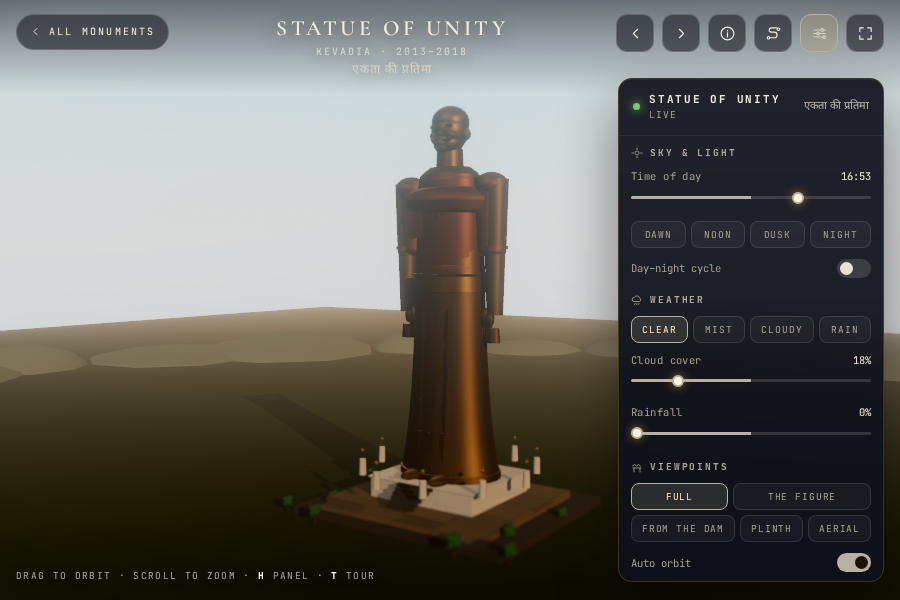
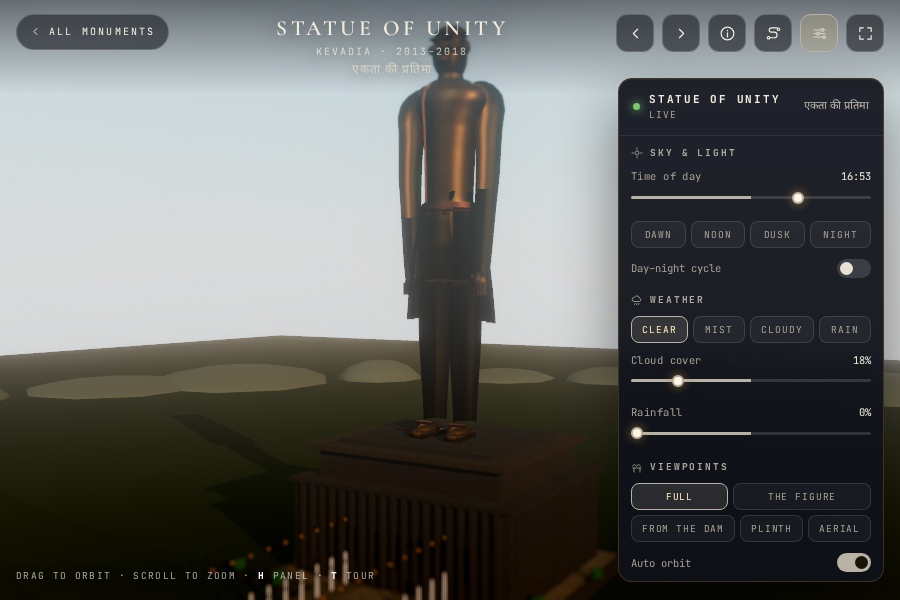
Statue of Unity: the armpit, solved by the blend radius
I had been moving the arm spine outward in three passes, which never separated
the arm from the body. The cause was one number I had not read: the smooth
union blends across K = 1.5 m, so any arm within 1.5 m of the torso is fused to
it by construction.

K is 0.55 now. The arms hang clear with a gap down both sides, the shoulders
are rounded, the hands read beside the thighs, and the figure finally has the
two separate limbs the real statue has.

Same lesson as the Lotus: the answer was a parameter in the code, not a
position I could nudge into place.

diff --git a/monuments/statue-of-unity.html b/monuments/statue-of-unity.html
@@ -8,8 +8,8 @@
 <meta name="theme-color" content="#b8b2a4">
 <meta name="author" content="Dr Sohil Momin">
 <link rel="icon" href="../assets/img/favicon.svg" type="image/svg+xml">
-<link rel="stylesheet" href="../assets/css/fonts.css?v=7d88d4bfc1">
-<link rel="stylesheet" href="../assets/css/monument.css?v=7d88d4bfc1">
+<link rel="stylesheet" href="../assets/css/fonts.css?v=e70a183066">
+<link rel="stylesheet" href="../assets/css/monument.css?v=e70a183066">
 <meta property="og:type" content="website">
 <meta property="og:title" content="Statue of Unity — 3D miniature · INDIA">
 <meta property="og:description" content="At 182 metres, the world’s tallest statue: Sardar Vallabhbhai Patel in bronze, facing the Narmada dam.">
@@ -31,11 +31,11 @@
 <div id="app"></div>
 <noscript><div class="noscript">This page renders Statue of Unity as a live 3D model and needs JavaScript and WebGL. You can still read about the monument on <a href="https://en.wikipedia.org/wiki/Statue_of_Unity">Wikipedia</a>.</div></noscript>
 
-<script src="../assets/js/index-data.js?v=7d88d4bfc1"></script>
+<script src="../assets/js/index-data.js?v=e70a183066"></script>
 <script>window.MONUMENT_DATA = {"name": "Statue of Unity", "deva": "एकता की प्रतिमा", "place": "Kevadia", "state": "Gujarat", "era": "Modern · 2013–2018", "period": "2013–2018", "style": "Contemporary monumental bronze", "unesco": "—", "wikipedia": "https://en.wikipedia.org/wiki/Statue_of_Unity", "history": ["The Statue of Unity stands on the island of Sadhu Bet in the Narmada near Kevadia, Gujarat, facing the Sardar Sarovar dam. At 182 metres it is the tallest statue in the world, dedicated to Sardar Vallabhbhai Patel, the first deputy prime minister of India and the man who brought the princely states into the Union.", "It was announced in 2010, designed by the sculptor Ram V. Sutar and built by Larsen & Toubro between 2013 and 2018. The figure is a steel frame clad in bronze panels, about 1,700 tonnes of bronze over 25,000 tonnes of steel and concrete, with a viewing gallery at 153 metres that holds 200 people at a time.", "The statue was unveiled on 31 October 2018, Patel’s birthday. Around it the state has built a memorial garden, a museum, a valley of flowers and a memorial to the Sardar’s life, and the whole complex is reached by a road and a boat across the reservoir."], "facts": [{"k": "Unveiled", "v": "31 October 2018"}, {"k": "Height", "v": "182 m — tallest statue in the world"}, {"k": "Sculptor", "v": "Ram V. Sutar"}, {"k": "Built by", "v": "Larsen & Toubro, 2013–2018"}, {"k": "Viewing gallery", "v": "At 153 m"}, {"k": "Setting", "v": "Sadhu Bet, Narmada, Gujarat"}], "links": [{"label": "Wikipedia", "href": "https://en.wikipedia.org/wiki/Statue_of_Unity"}, {"label": "Gujarat tourism", "href": "https://www.gujarattourism.com/"}], "image": {"file": "Statue_of_Unity.jpg", "artist": "Snehrashmi", "license": "CC BY-SA 4.0", "licenseUrl": "https://creativecommons.org/licenses/by-sa/4.0", "page": "https://commons.wikimedia.org/wiki/File:Statue_of_Unity.jpg", "src": "assets/img/statue-of-unity.jpg"}};</script>
 <script type="module">
-  import { boot } from '../assets/js/monument-engine.js?v=7d88d4bfc1';
-  import monument from '../assets/js/monuments/statue-of-unity.js?v=7d88d4bfc1';
+  import { boot } from '../assets/js/monument-engine.js?v=e70a183066';
+  import monument from '../assets/js/monuments/statue-of-unity.js?v=e70a183066';
   boot(monument);
 </script>
 </body>

diff --git a/assets/js/monuments/statue-of-unity.js b/assets/js/monuments/statue-of-unity.js
@@ -128,7 +128,7 @@ export default {
      * ==================================================================== */
     const NV = 74, NU = 60;                 // levels, angular segments
     const T0 = 0.385, T1 = 0.872;
-    const K = 1.5;                          // blend radius, metres
+    const K = 0.55;                         // blend radius: 1.5 fused the arm to the torso
 
     const smin = (a, b, k) => {
       const h = Math.max(k - Math.abs(a - b), 0) / k;
